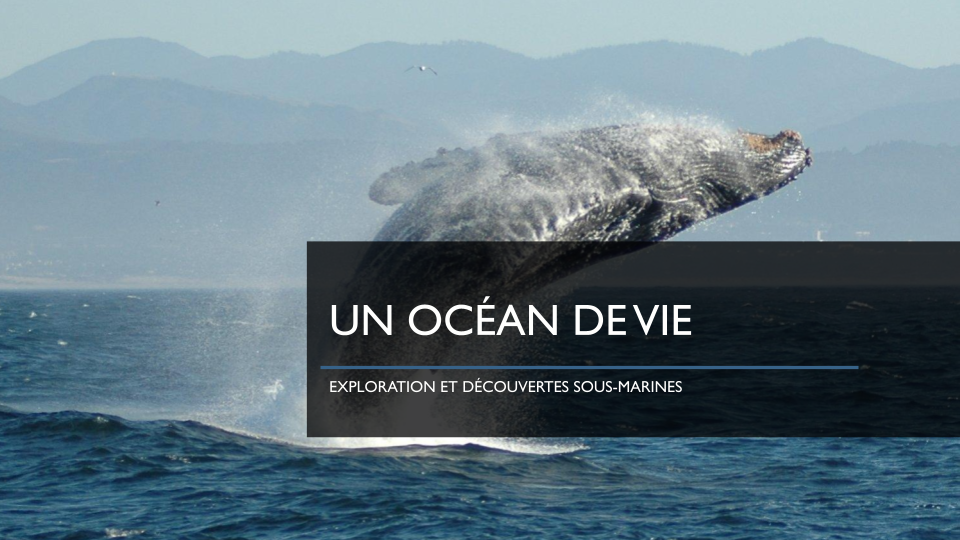
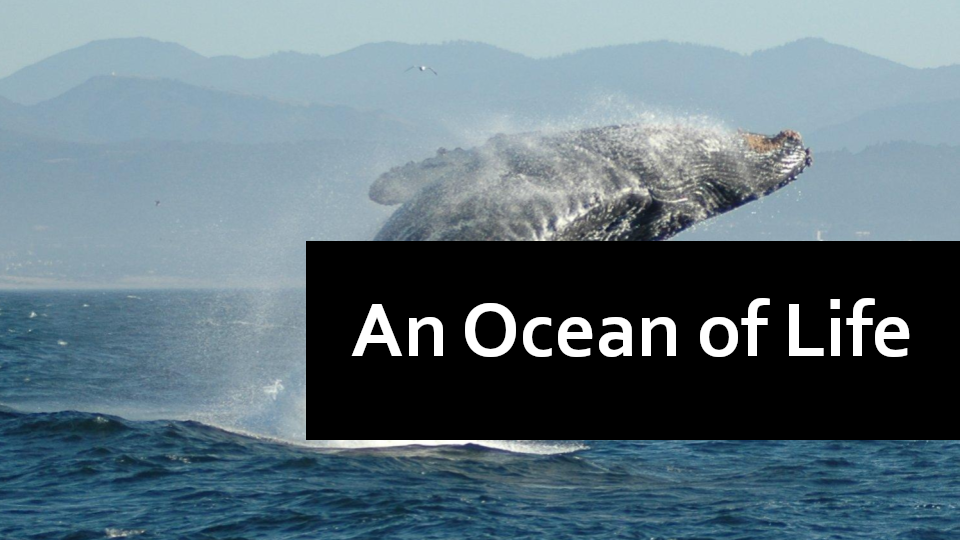
Translation to english

Changed region(s): [[0.3125, 0.4444, 1.0, 0.8296]]

diff --git a/index.html b/index.html
@@ -24,7 +24,7 @@
 
     <!-- Put your site title here -->
     <title>
-        Portfolio : Benoît Miège | Développeur Unity Engine et Unreal Engine.
+        Portfolio : Benoît Miège | Engine and Unreal Engine Developper.
     </title>
 
     <meta name="description" content="Add small description of yourslef.">
@@ -41,9 +41,9 @@
         <div class="row">
             <nav class="nav" role="navigation">
                 <ul class="nav__items">
-                    <li class="nav__item"><a href="#competences" class="nav__link">Compétences</a></li>
-                    <li class="nav__item"><a href="#parcours" class="nav__link">Parcours</a></li>
-                    <li class="nav__item"><a href="#projets" class="nav__link">Projets</a></li>
+                    <li class="nav__item"><a href="#competences" class="nav__link">Skills</a></li>
+                    <li class="nav__item"><a href="#parcours" class="nav__link">Education</a></li>
+                    <li class="nav__item"><a href="#projets" class="nav__link">Projects</a></li>
                     <li class="nav__item"><a href="#contact" class="nav__link">Contact</a>
                     </li>
                 </ul>
@@ -51,22 +51,20 @@
         </div>
         <section class="welcome" id="welcome">
             <div class="row">
-                <h2>Benoît Miège | Développeur Unity Engine et Unreal Engine</h2>
+                <h2>Benoît Miège | Unity Engine and Unreal Engine Developper</h2>
                     <div class="welcome__box">
                         <div class="welcome__text">
                             <p style="text-align: justify;">
-                                Bienvenue sur mon portfolio.
+                                Welcome on my portfolio.
 
                                 <br />
                                 <br />
 
-                                Je termine actuellement un stage de fin d'études dans ma formation en double diplôme&nbsp;:
-                                d'ingénieur en France et Maîtrise d'informatique
-                                avec concentration en Jeu Vidéo au Canada.
+                                I am currently finishing an internship as Unity developer which is the final step in my computer science engineering degree at ENSEIRB-MATMECA (French Engineering School) and in my master degree in Video Game Programming at UQAC (University of Chicoutimi, Canada)
 
                                 <br />
                                 <br />
-                                Je recherche maintenant un emploi de développeur sur Unity Engine et Unreal Engine.
+                                I am now available to work as Unity Engine, Unreal Engine or Gameplay Developper.
                             </p>
                         </div>
                         <div class="welcome__image-box">
@@ -83,9 +81,10 @@
 
         <section class="client" id="competences">
             <div class="row">
-                <h2>Compétences</h2>
-                <p> Voici une liste non exhaustive des langages, moteurs de jeux, outils et frameworks que j'ai déjà pu utiliser.</p>
-                <h3>Langages</h3>
+                <h2>Skills</h2>
+                <p> Below a list of some of the languages, game engines, tools and frameworks I have already used. 
+                </p>
+                <h3>Languages</h3>
                 <div class="client__logos">
                     <img src="./images/perso/ISO_C++_Logo.svg.png" class="client__logo" alt="C++" />
                     <img src="./images/perso/C_Programming_Language.svg.png" class="client__logo" alt="C" />
@@ -98,7 +97,7 @@
                     <img src="./images/perso/logoOCaml.png" class="client__logo" alt="OCaml" />
                     <img src="./images/perso/R_logo.svg.png" class="client__logo" alt="R" />
                 </div>
-                <h3>Moteurs de jeu, outils et Frameworks</h3>
+                <h3>Game engines, Tools and Frameworks</h3>
                 <div class="client__logos">
                     <img src="./images/perso/LogoUnreal.png" class="client__logo" alt="UnrealEngine" />
                     <img src="./images/perso/UnityLogo.png" class="client__logo" alt="Unity3D" />
@@ -117,17 +116,17 @@
 
         <section class="about" id="parcours">
             <div class="row">
-                <h2>Parcours</h2>
+                <h2>Education</h2>
                 <div class="about__content">
                     <div class="about__text">
                         <p>
-                            Admis en filière informatique en 2021. J'ai pu suivre des cours concernant :
+                            I joined the computer science department in 2021. I attended classes on the following subjects :
                         </p>
                         <ul class="projets__list">
-                            <li>la compilation, la cryptologie, l'intelligence artificielle.</li>
-                            <li>les programmations système, orienté objet et réseau.</li>
-                            <li>l'algorithmique distribuée, la programmation multicoeurs et GPU.</li>
-                            <li>les méthodes agiles telles que SCRUM.</li>
+                            <li>compilation, cryptography, artificial intelligence.</li>
+                            <li>system programmation, POO and network.</li>
+                            <li>distributed algorithm, multicore and GPU programming.</li>
+                            <li>agile methodologies such as SCRUM.</li>
                         </ul>
                         <a href="https://enseirb-matmeca.bordeaux-inp.fr/fr" class="btn">ENSEIRB-MATMECA</a>
                     </div>
@@ -138,14 +137,14 @@
                 <div class="about__content">
                     <div class="about__text">
                         <p>
-                            J'effectue actuellement une année d'étude à l'étranger à l'UQAC dans le cadre d'un accord de double diplôme.
-                            Je suis le programme de Maîtrise en Informatique avec concentration en Jeu Vidéo qui me permet d'aborder les sujets suivants :
+                            I have compleated a year of study abroad at UQAC as part of a double degree agreement.
+                            I was in the Master's program in Computer Science with a concentration in Video Games which allows me to address the following topics :
                         </p>
                         <ul class="projets__list">
-                            <li>Les principes des moteurs de jeux et de développement de jeux vidéo.</li>
-                            <li>Les jeux sérieux.</li>
-                            <li>Les mathématiques et physique pour le jeu vidéo.</li>
-                            <li>La programmation sur architectures parallèles, les interactions 3D et la réalité virtuelle.</li>
+                            <li>Game engine principals, Video Game programming.</li>
+                            <li>Serious Games.</li>
+                            <li>Video Games Math and Physics.</li>
+                            <li>Parallel architectures programming, 3D interactions and Virtual Reality.</li>
                         </ul>
                         <a href="https://www.uqac.ca/" class="btn">UQAC</a>
                     </div>
@@ -160,7 +159,7 @@
 
         <section class="projets" id="projets">
             <div class="row">
-                <h2>Projets</h2>
+                <h2>Projects</h2>
                 <div class="projets__boxes">
 
                     <!-- Each div with the projets__box class is a project. -->
@@ -169,20 +168,17 @@
                         <div class="projets__text">
                             <h3>G.O.O.H.</h3>
                             <ul class="projets__list">
-                                <li>Date : janvier à avril 2024</li>
-                                <li>Type : Projet académique </li>
-                                <li>Équipe : 5 développeur·euses, 1 artiste</li>
-                                <li>Technologie : UnrealEngine 5.3, C++</li>
+                                <li>Date : january to april 2024</li>
+                                <li>Type : Academic project </li>
+                                <li>Team : 5 developpers, 1 artist</li>
+                                <li>Tech : UnrealEngine 5.3, C++</li>
                             </ul>
                             <p>
-                                Get Out Of Here est un survival horror.
-                                Le joueur incarne un rescapé dans une station spatiale abandonnée.
-                                Il doit échapper aux différentes créatures ayant pris possession des lieux
-                                et trouver un vaisseau pour partir.
+                                Get Out Of Here is a survival horror game. The players embodie survivors in an abandoned space station. They must escape from the different creatures that have taken possession of the place and find a spaceship to leave the station.
                             </p>
                             <div class="projets__links">
                                 <a href="https://thalmug.itch.io/gooh" target="_blank" rel="noopener noreferrer" class="link__text">
-                                    Page itch.io <span>&rarr;</span>
+                                    itch.io page<span>&rarr;</span>
                                 </a>
                             </div>
                         </div>
@@ -196,19 +192,17 @@
                         <div class="projets__text">
                             <h3>SIR Gate</h3>
                             <ul class="projets__list">
-                                <li>Date : janvier à juin 2024</li>
-                                <li>Type : Projet académique </li>
-                                <li>Équipe : 6 développeur·euses, 1 artiste</li>
-                                <li>Technologie : UnrealEngine from source 5.3, C++</li>
+                                <li>Date : january to june 2024</li>
+                                <li>Type : Academic project </li>
+                                <li>Team : 6 developpers, 1 artist</li>
+                                <li>Tech : UnrealEngine from source 5.3</li>
                             </ul>
                             <p>
-                                SIR Gate est un fps en ligne en 3 contre 3 en mode deathmatch.
-                                Le but de ce projet est d'aborder certaines des problématiques liées
-                                aux jeux vidéo en ligne et leurs solutions (lobby, server rewind ...).
+                                SIR Gate is an online fps in 3 versus 3 deathmatch mode. The goal of this project is to experiment some of the issues related to online video games and their solutions (lobby, server rewind ...).
                             </p>
                             <div class="projets__links">
                                 <a href="https://thalmug.itch.io/sir-gate" target="_blank" rel="noopener noreferrer" class="link__text">
-                                    Page itch.io <span>&rarr;</span>
+                                    itch.io page<span>&rarr;</span>
                                 </a>
                             </div>
                         </div>
@@ -219,23 +213,19 @@
 
                     <div class="projets__box">
                         <div class="projets__text">
-                            <h3>Un Nouveau Soleil</h3>
+                            <h3>A New Sun</h3>
                             <ul class="projets__list">
-                                <li>Date : janvier à avril 2024</li>
-                                <li>Type : Projet académique </li>
-                                <li>Équipe : 5 développeur·euses, 1 artiste</li>
-                                <li>Technologie : UnrealEngine 5.3, C++</li>
+                                <li>Date : january to april 2024</li>
+                                <li>Type : Academic project </li>
+                                <li>Team : 5 developpers, 1 artist</li>
+                                <li>Tech : UnrealEngine 5.3, C++</li>
                             </ul>
                             <p>
-                                Il s'agit d'un jeu sérieux de gestion en tour par tour qui vise
-                                à éduquer les joueurs sur les alternatives possibles de production durable.
-                                L'action se place dans une colonie humaine postapocalyptique.
-                                Le joueur contrôle la construction de la ville sur une carte découpée en tuiles
-                                en essayant de maintenir un équilibre dans ses ressources.
+                                A New Sun is a turn-based management serious game that aims to educate players on sustainable production alternatives. The action takes place in a post-apocalyptic human colony. The player controls the construction of the city on a map divided into tiles and tries to maintain a balance in its resources.
                             </p>
                             <div class="projets__links">
                                 <a href="https://transilvanya.itch.io/un-nouveau-soleil" target="_blank" rel="noopener noreferrer" class="link__text">
-                                    Page itch.io <span>&rarr;</span>
+                                    itch.io page<span>&rarr;</span>
                                 </a>
                             </div>
                         </div>
@@ -247,22 +237,19 @@
 
                     <div class="projets__box">
                         <div class="projets__text">
-                            <h3>Un Océan de Vie</h3>
+                            <h3>An Ocean of Life</h3>
                             <ul class="projets__list">
-                                <li>Date : janvier à avril 2024</li>
-                                <li>Type : Projet académique </li>
-                                <li>Équipe : 3 développeur·euses</li>
-                                <li>Technologie : UnrealEngine 5.3, C++</li>
+                                <li>Date : january to april 2024</li>
+                                <li>Type : Academic project</li>
+                                <li>Team : 3 developpers</li>
+                                <li>Tech : UnrealEngine 5.3, C++</li>
                             </ul>
                             <p>
-                                Un Océan de Vie est un jeu immersif en réalité virtuelle dans un milieu sous-marin.
-                                L'emphase est mise sur la beauté des environnements offerts à l'exploration.
-                                Le joueur peut en plus s'instruire sur les espèces marines rencontrées et
-                                les risques climatiques et environnementaux auxquels elles sont soumises.
+                                An Ocean of Life is an immersive Virtual Reality game in an underwater environment. The emphasis is on the beauty of the environments offered for exploration. The player can learn about the marine species encountered and the climatic and environmental risks to which they are subjected.
                             </p>
                         </div>
                         <div class="projets__image-box">
-                            <img src="./images/perso/oceandevie.png" class="projets__image" alt="Un Océan de Vie" />
+                            <img src="./images/perso/oceandevie.png" class="projets__image" alt="An Ocean of Life" />
                         </div>
                     </div>
 
@@ -270,21 +257,17 @@
                         <div class="projets__text">
                             <h3>Neverland</h3>
                             <ul class="projets__list">
-                                <li>Date : Septembre à Décembre 2023</li>
-                                <li>Type : Projet académique </li>
-                                <li>Équipe : 5 développeur·euses, 2 artistes</li>
-                                <li>Technologie : Unity 3D, C#</li>
+                                <li>Date : september to december 2023</li>
+                                <li>Type : Academic project </li>
+                                <li>Team : 5 developpers, 2 artists</li>
+                                <li>Tech : Unity 3D, C#</li>
                             </ul>
                             <p>
-                                Neverland est un jeu de type platformer narratif dans une ambiance feel-good.
-                                L’objectif y est de se déplacer dans un monde intrigant et chatoyant où
-                                il est permis de prendre son temps et de s'immerger dans l’ambiance des lieux.
-                                Les aventures proposées sont donc centrées autour de thèmes comme la découverte,
-                                l’exploration, la relation à l’autre.
+                                Neverland is a narrative platformer game in a feel-good atmosphere. The goal is to move around in an intriguing and colorful world where one can takes its time and immerse itself in the atmosphere of the places. The adventures offered are therefore centered around themes such as discovery, exploration, and relationships with others.
                             </p>
                             <div class="projets__links">
                                 <a href="https://nekkiji.itch.io/neverland" target="_blank" rel="noopener noreferrer" class="link__text">
-                                    Page itch.io <span>&rarr;</span>
+                                    itch.io page<span>&rarr;</span>
                                 </a>
                             </div>
                         </div>
@@ -299,20 +282,17 @@
                         <div class="projets__text">
                             <h3>GalaxyPotatoes</h3>
                             <ul class="projets__list">
-                                <li>Date : 6 au 8 octobre 2023</li>
+                                <li>Date : 6 to 8 october 2023</li>
                                 <li>Type : GameJam </li>
-                                <li>Équipe : 4 développeur·euses, 1 artiste</li>
-                                <li>Technologie : Unity 3D, C#</li>
+                                <li>Team : 4 developpers, 1 artist</li>
+                                <li>Tech : Unity 3D, C#</li>
                             </ul>
                             <p>
-                                Dans Galaxy Potatoes, le but est de remplir des quêtes en plaçant des objets
-                                dans le décor, puis en lançant une pomme de terre avec un canon.
-                                Les objets peuvent modifier la vitesse ou la direction du projectile pour aider
-                                le joueur à atteindre ses objectifs.
+                                Galaxy Potatoes is a small game made during a GameJam. The goal is to complete quests by placing objects in the environment, then launching a potato with a cannon. The objects can modify the speed or direction of the projectile to help the players achieve their goals.
                             </p>
                             <div class="projets__links">
                                 <a href="https://thalmug.itch.io/galaxy-potatoes" target="_blank" rel="noopener noreferrer" class="link__text">
-                                    Page itch.io <span>&rarr;</span>
+                                    itch.io page<span>&rarr;</span>
                                 </a>
                             </div>
                         </div>
@@ -327,15 +307,13 @@
                         <div class="projets__text">
                             <h3>Pepper Engine</h3>
                             <ul class="projets__list">
-                                <li>Date : Septembre à Décembre 2023</li>
-                                <li>Type : Projet académique </li>
-                                <li>Équipe : 3 développeurs</li>
-                                <li>Technologie : C++, Vulkan</li>
+                                <li>Date : september to december 2023</li>
+                                <li>Type : Academic project </li>
+                                <li>Team : 3 developpers</li>
+                                <li>Tech : C++, Vulkan</li>
                             </ul>
                             <p>
-                                Il s'agit d'une bibliothèque fournissant les éléments mathématiques et physiques de base pour un moteur de jeu.
-                                Celle-ci a été réalisée en C++ à partir de zéro. Elle incorpore les calculs sur vecteurs et matrices,
-                                une physique de corps rigides avec rotations, la détection et la résolution de collisions.
+                                The Pepper Engine is a small library providing basic mathematical and physical elements for a game engine. It was made from scratch in C++. It includes vector and matrix calculations, rigid body physics with rotations, collision detection and resolution.
                             </p>
                             <div class="projets__links">
                                 <a href="https://github.com/Suiram24/PepperEngine" title="View Source Code" target="_blank" rel="noopener noreferrer">
@@ -354,17 +332,13 @@
                         <div class="projets__text">
                             <h3>CreaCubeVR</h3>
                             <ul class="projets__list">
-                                <li>Date : Décembre 2022 à Avril 2023</li>
-                                <li>Type : Projet académique </li>
-                                <li>Équipe : 7 développeurs</li>
-                                <li>Technologie : Unity3D, C#</li>
+                                <li>Date : december 2022 to april 2023</li>
+                                <li>Type : Academic project </li>
+                                <li>Team : 7 developpers</li>
+                                <li>Tech : Unity3D, C#</li>
                             </ul>
                             <p>
-                                CreaCubeVR est un projet à l'initiative de chercheurs du CNRS et de l'INRIA Bordeaux.
-                                L'application cherche à reproduire un dispositif expérimental existant
-                                (en version physique) sur ordinateur afin de faciliter son déploiement et la récolte de données.
-                                L'utilisateur doit explorer les relations reliant 4 cubes robotiques avec plusieurs capacités
-                                (moteur, roues, capteur ...) et les assembler de façon adéquate.
+                                CreaCubeVR is a project initiated by researchers from CNRS and INRIA Bordeaux. The application seeks to reproduce an existing experimental device (in physical version) on a computer to facilitate its deployment and data collection. The user must explore the relationships between 4 robotic cubes with several capabilities (motor, wheels, sensor ...) and assemble them appropriately.
                             </p>
                         </div>
                         <div class="projets__video-box">
@@ -378,16 +352,13 @@
                         <div class="projets__text">
                             <h3>Reimyn's Memories</h3>
                             <ul class="projets__list">
-                                <li>Date : 8 au 11 avril 2022</li>
+                                <li>Date : 8 to 11 april 2022</li>
                                 <li>Type : GameJam </li>
-                                <li>Équipe : 3 développeurs, 2 artistes</li>
-                                <li>Technologie : Unity 3D, C#</li>
+                                <li>Team : 3 developpers, 2 artists</li>
+                                <li>Tech : Unity 3D, C#</li>
                             </ul>
                             <p>
-                                Réalisé en GameJam, Reimyn's Memories a été pensé pour répondre 
-                                à la contrainte "Votre jeu doit contenir deux styles de jeux".
-                                Voici donc un puzzle game de memory au format RPG s'ouvrant sur une phase 
-                                d'exposition au format visual novel.
+                                Made during a GameJam, Reimyn's Memories was designed to meet the constraint "Your game must contain two styles of games". Here is a memory puzzle game in RPG format opening on an exposition phase in visual novel format.
                             </p>
                             <div class="projets__links">
                                 <a href="https://beponton.itch.io/reimyns-memories" target="_blank" rel="noopener noreferrer" class="link__text">
@@ -413,13 +384,12 @@
 
   <section class="contact" id="contact">
     <div class="row">
-      <h2>Me contacter</h2>
+      <h2>Contact</h2>
       <div class="contact__info">
         <p>
-            N'hésitez à prendre contact via mon adresse mail pour toute proposition professionelle.
-            Merci d'avoir parcouru mon portfolio jusqu'au bout !
+            Don't hesitate to contact me for any professional proposal.
+            Thank you for browsing my portfolio to the end !
         </p>
-        <!-- Replace the email with yours -->
         <a href="mailto:bmiege-etudiant-dev@outlook.fr " class="btn"> bmiege-etudiant-dev@outlook.fr </a>
       </div>
     </div>
@@ -432,13 +402,13 @@
       <!-- Update the links to point to your accounts -->
       <ul class="footer__social-links">
         <li class="footer__social-link-item">
-          <a href="https://benoitmiege.itch.io/" title="Lien vers mon profile itchio">
+          <a href="https://benoitmiege.itch.io/" title="Link to my itchio profile">
             <img src="./images/perso/itchio.png" class="footer__social-image" alt="Itchio">
           </a>
         </li>
         <li class="footer__social-link-item">
           <a href="https://www.linkedin.com/in/benoît-m-49b41a263/">
-            <img src="./images/linkedin.svg" title="Lien vers mon profile Linkedin" class="footer__social-image" alt="Linkedin">
+            <img src="./images/linkedin.svg" title="Link to my Linkedin profile" class="footer__social-image" alt="Linkedin">
           </a>
         </li>
       </ul>
